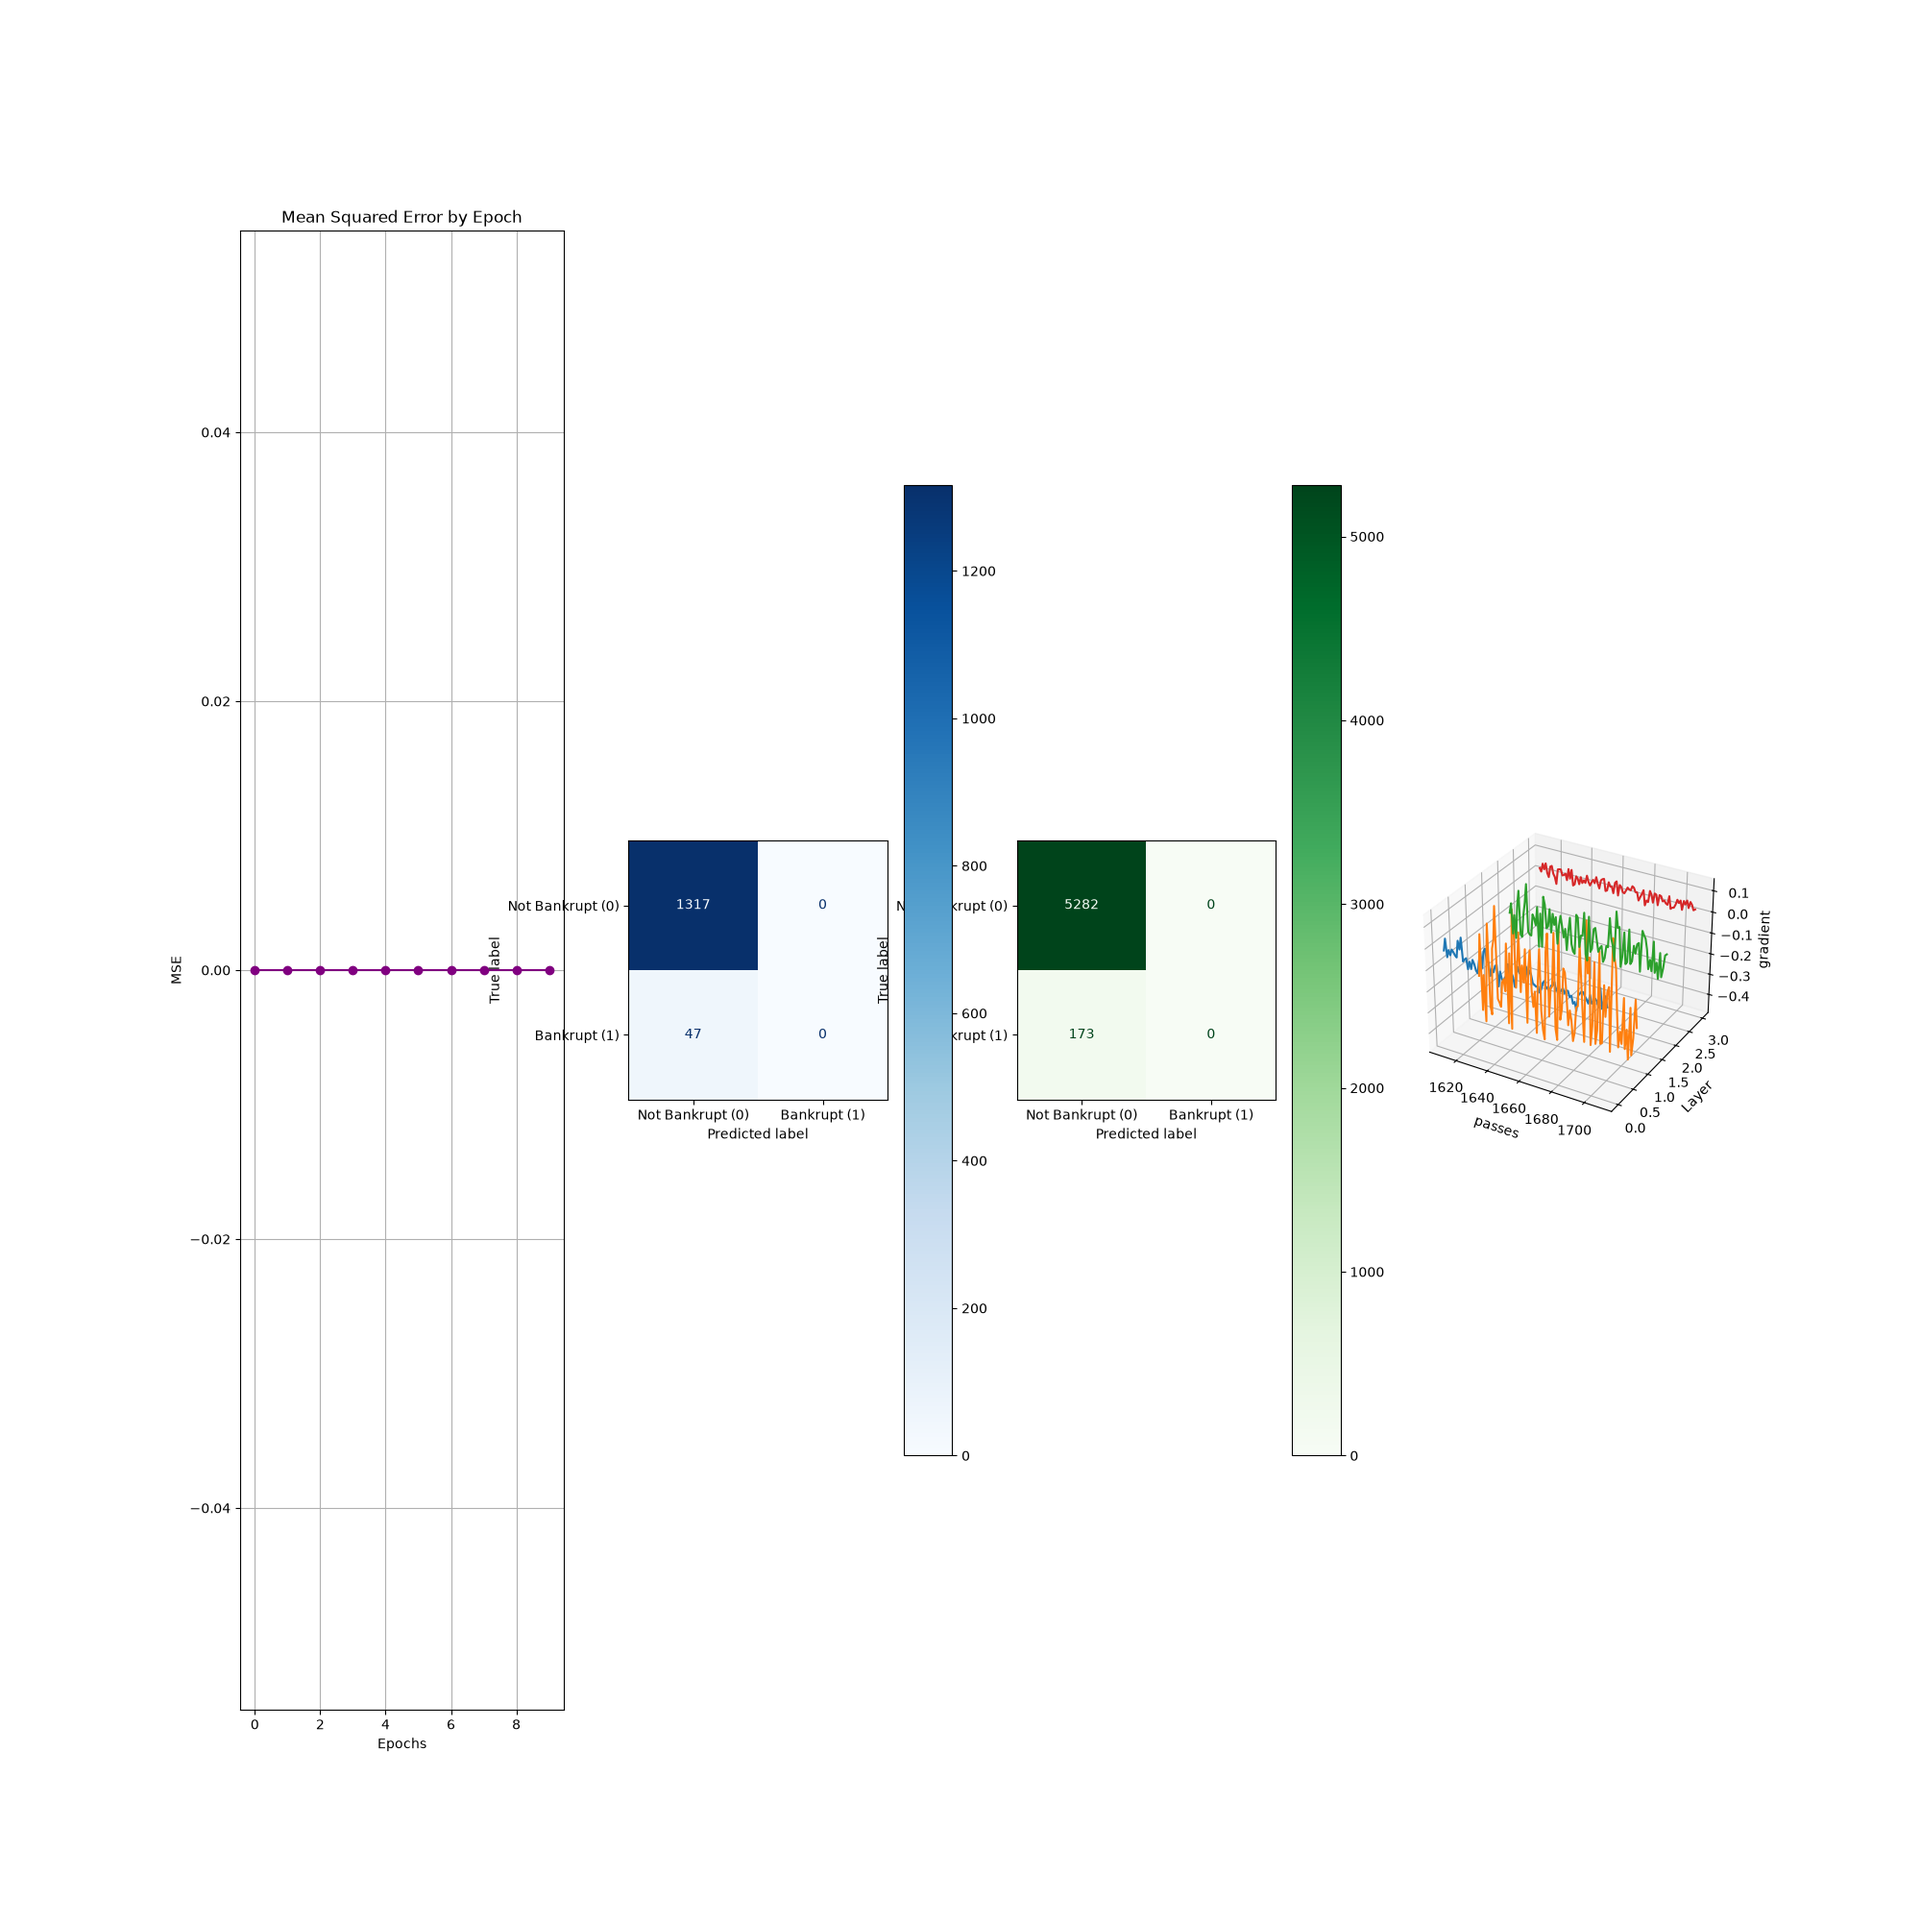
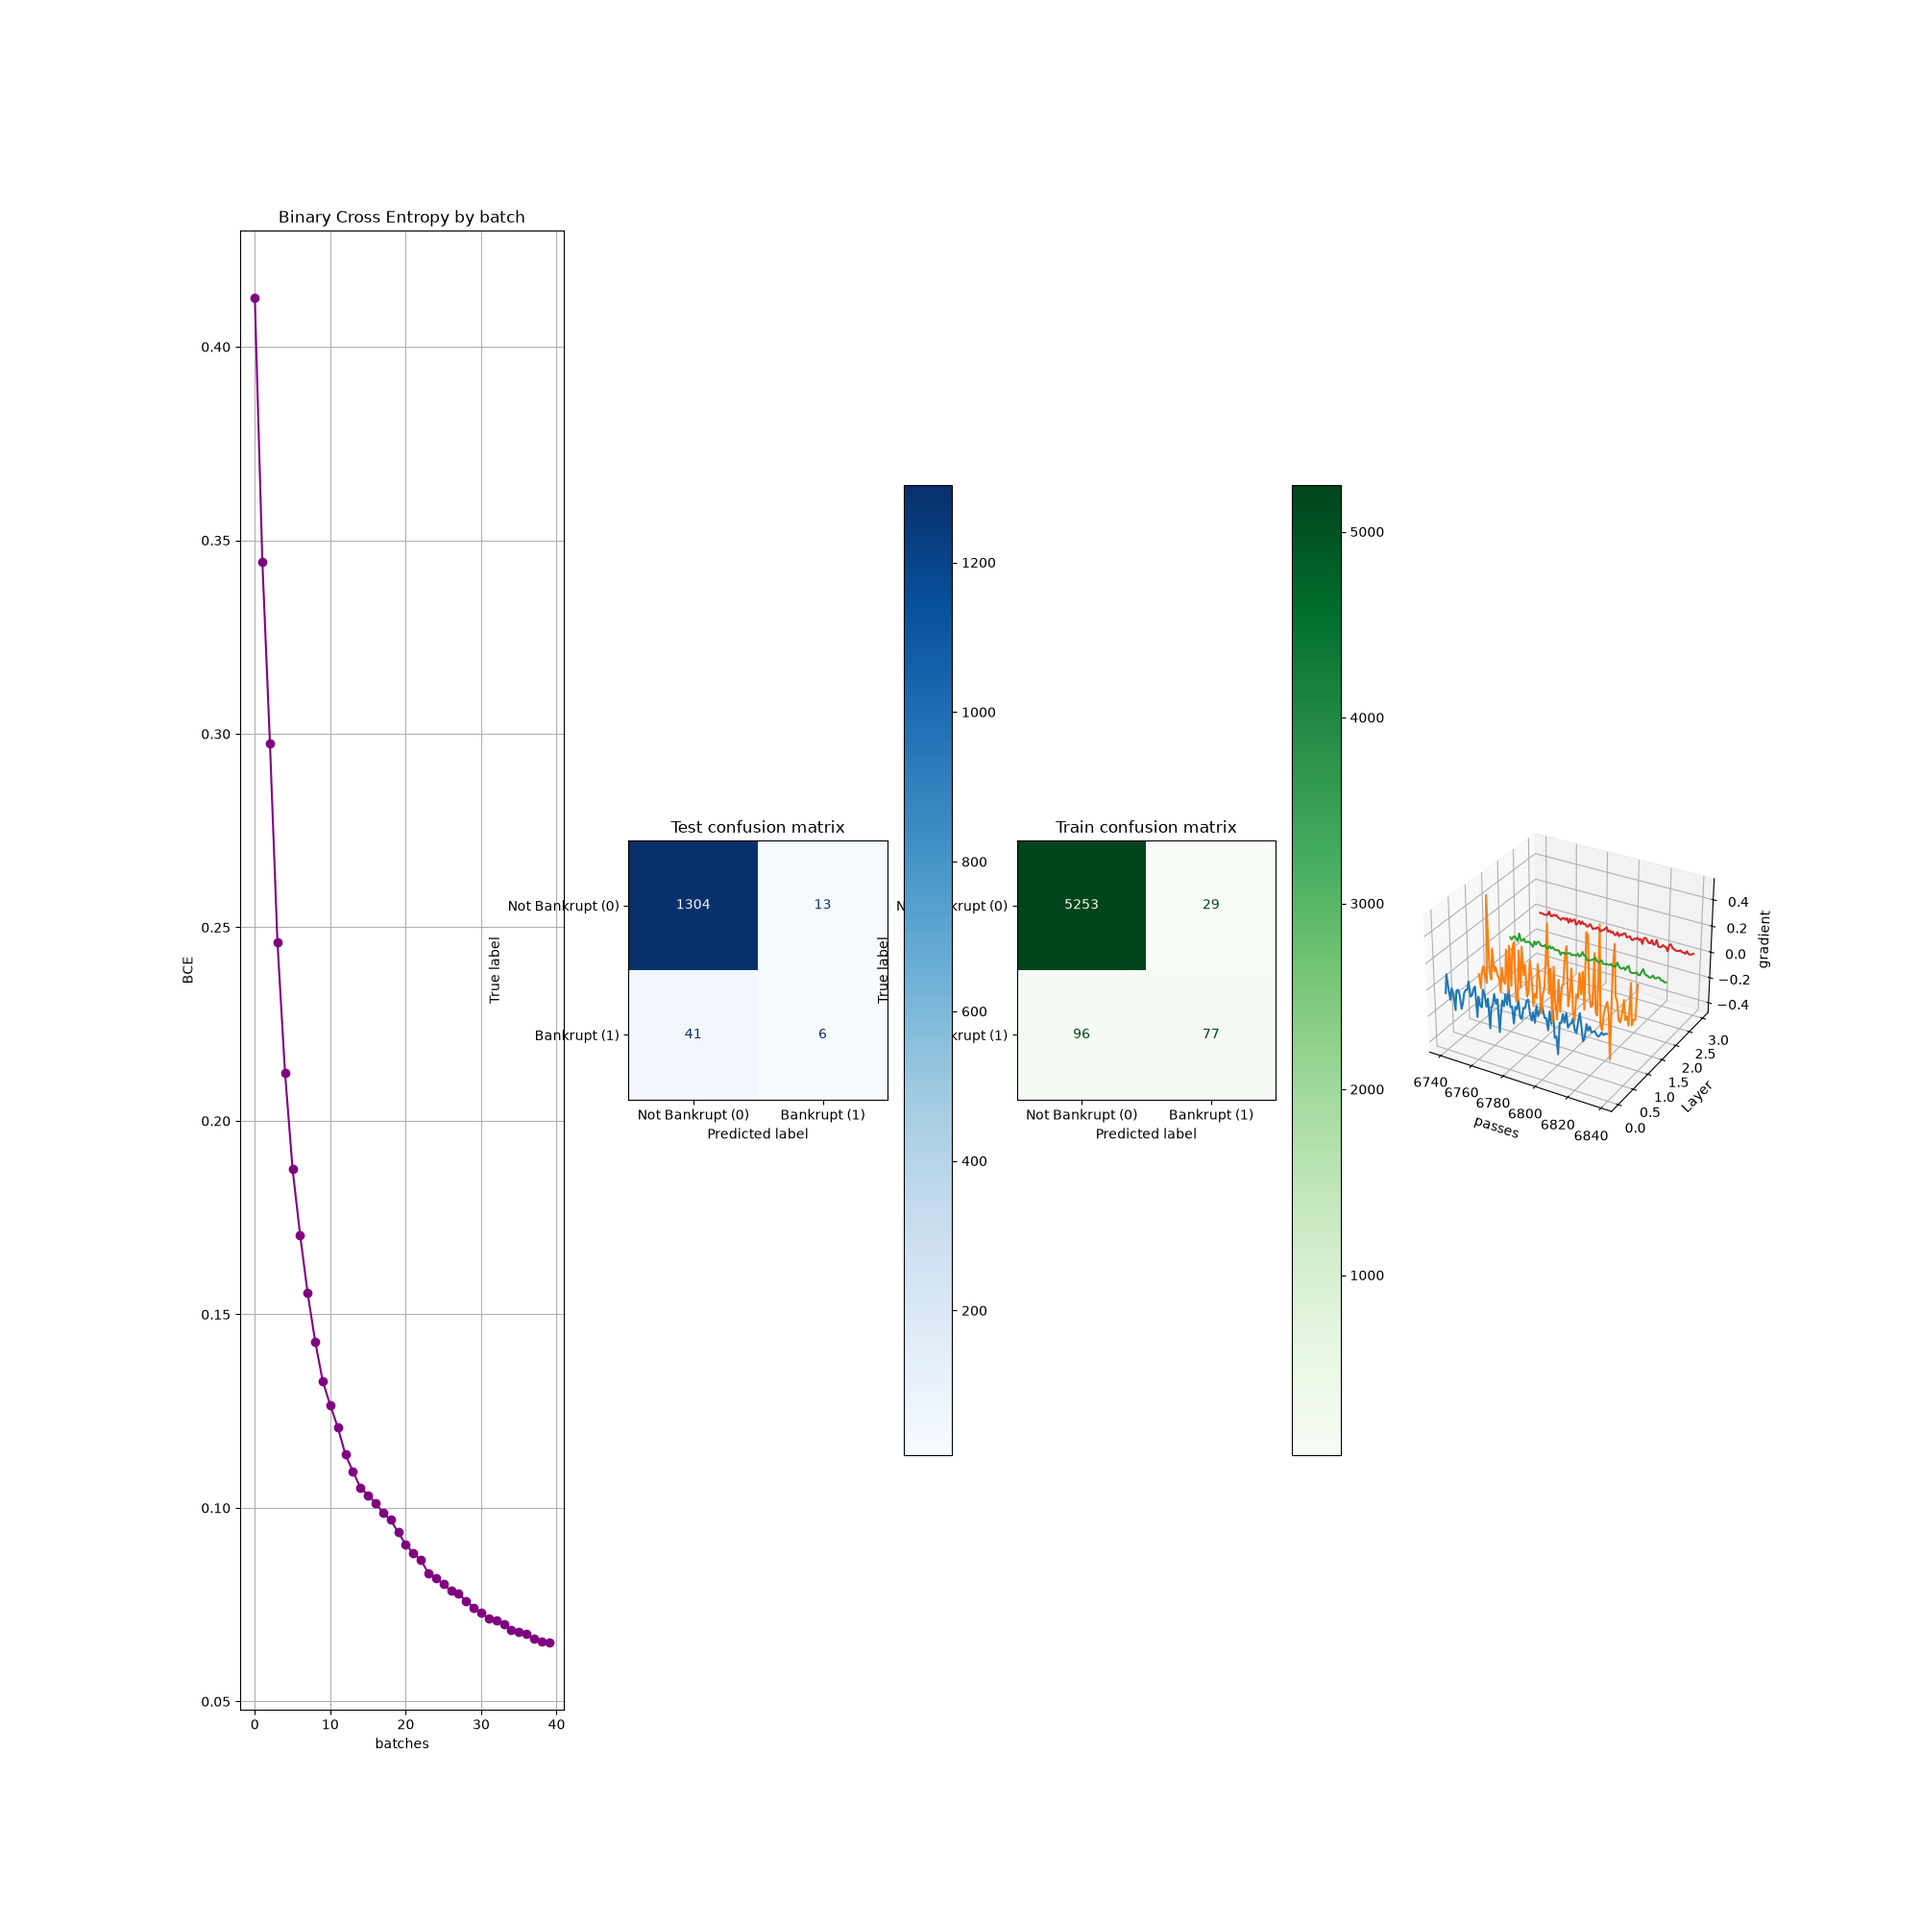
update classiffication validation

diff --git a/Axon.py b/Axon.py
@@ -5,6 +5,42 @@ import copy
 from AxonCV import image_processing
 rng = cp.random.default_rng()
 max_itterations = 400
+
+def reLu_forwards(Z)->cp.ndarray:
+  A = cp.maximum(0, Z)
+  return  A
+def relu_backpropergation(Z)->cp.ndarray:
+  return cp.where(Z > 0, 1, 0)
+def tanh_forwards(Z)->cp.ndarray:
+  return cp.tanh(Z)
+def tanh_backpropergation(Z)->cp.ndarray:
+  return  1 - cp.tanh(Z)**2
+def linear_forwards(Z)->cp.ndarray:
+  return Z
+def linear_backpropergation(Z)->cp.ndarray:
+  return  cp.ones_like(Z)
+def GELU_forwards(Z)->cp.ndarray:
+  u = cp.sqrt(2/cp.pi)*(Z+0.044715*(Z**3))
+  u = cp.clip(u, -10.0, 10.0)
+  return 0.5*Z*(1+cp.tanh(u))
+def GELU_backpropergation(Z):
+  u = cp.sqrt(2/cp.pi)*(Z+0.044715*(Z**3))
+  dudx = cp.sqrt(2/cp.pi)*(1+0.134145*Z**2)
+  return 0.5*(1+cp.tanh(u))+(0.5*Z)*((1-cp.tanh(u)**2)*dudx)
+def soft_max(Z):
+  ex = cp.exp(Z-cp.max(Z,axis=1, keepdims=True))
+  return ex/cp.sum(ex,axis=1, keepdims=True)
+def sigmoid_forwards(Z):
+  a = cp.where(
+  Z >= 0,
+  1 / (1 + cp.exp(-Z)),
+  cp.exp(Z) / (1 + cp.exp(Z))
+  )
+  return a
+def sigmoid_backpropergation(Z):
+  return Z*(1-Z)
+
+
 class networkLayer:
   def __init__(self, parent_instance, m:int, n:int, activation:str = "ReLu", stage:str="hidden"):
     self.parent_model = parent_instance 
@@ -35,12 +71,12 @@ class networkLayer:
     self.input = cp.array([[]])
     self.activation = activation
     self.activation_functions = {
-      "ReLU":{"forwards":self.reLu_forwards, "back_propergation":self.relu_backpropergation},
-      "tanh":{"forwards":self.tanh_forwards, "back_propergation":self.tanh_backpropergation},
-      "linear":{"forwards":self.linear_forwards, "back_propergation":self.linear_backpropergation},
-      "GELU":{"forwards":self.GELU_forwards, "back_propergation":self.GELU_backpropergation},
-      "Softmax":{"forwards":self.soft_max, "back_propergation":self.linear_backpropergation},
-      "sigmoid":{"forwards":self.sigmoid, "back_propergation":self.linear_backpropergation}
+      "ReLU":{"forwards": reLu_forwards, "back_propergation":relu_backpropergation},
+      "tanh":{"forwards":tanh_forwards, "back_propergation": tanh_backpropergation},
+      "linear":{"forwards":linear_forwards, "back_propergation":linear_backpropergation},
+      "GELU":{"forwards":GELU_forwards, "back_propergation":GELU_backpropergation},
+      "Softmax":{"forwards":soft_max, "back_propergation":linear_backpropergation},
+      "sigmoid":{"forwards":sigmoid_forwards, "back_propergation":linear_backpropergation}
 
     }
     
@@ -55,39 +91,7 @@ class networkLayer:
     else:
       self.L = 0
       self.regularisation_backwards = self.std_back_prop
-  def reLu_forwards(self,)->cp.ndarray:
-    A = cp.maximum(0, self.linear_output)
-    return  A
-  def relu_backpropergation(self)->cp.ndarray:
-    return cp.where(self.linear_output > 0, 1, 0)
-  def tanh_forwards(self)->cp.ndarray:
-    return cp.tanh(self.linear_output)
-  def tanh_backpropergation(self)->cp.ndarray:
-    return  1 - cp.tanh(self.linear_output)**2
-  def linear_forwards(self)->cp.ndarray:
-    return self.linear_output
-  def linear_backpropergation(self)->cp.ndarray:
-    return  cp.ones_like(self.linear_output)
-  def GELU_forwards(self)->cp.ndarray:
-    u = cp.sqrt(2/cp.pi)*(self.linear_output+0.044715*(self.linear_output**3))
-    u = cp.clip(u, -10.0, 10.0)
-    return 0.5*self.linear_output*(1+cp.tanh(u))
-  def GELU_backpropergation(self):
-    u = cp.sqrt(2/cp.pi)*(self.linear_output+0.044715*(self.linear_output**3))
-    dudx = cp.sqrt(2/cp.pi)*(1+0.134145*self.linear_output**2)
-    return 0.5*(1+cp.tanh(u))+(0.5*self.linear_output)*((1-cp.tanh(u)**2)*dudx)
-  def soft_max(self):
-    ex = cp.exp(self.linear_output-cp.max(self.linear_output,axis=1, keepdims=True))
-    return ex/cp.sum(ex,axis=1, keepdims=True)
-  def sigmoid(self):
-    return cp.where(
-    self.linear_output >= 0,
-    1 / (1 + cp.exp(-self.linear_output)),
-    cp.exp(self.linear_output) / (1 + cp.exp(self.linear_output))
-    )
-  def sigmoid_backpropergation(self):
-    return self.linear_output*(1-self.linear_output)
-
+ 
 
 
 
@@ -98,7 +102,7 @@ class networkLayer:
     self.input = cp.array(input)
     self.linear_output = cp.dot(self.input, self.weights) + self.biases
     #self.weights_sum = cp.sum(cp.abs(self.weights))                                              
-    return self.activation_func()
+    return self.activation_func(self.linear_output)
   
   def L2_back_prop(self):
     return self.dW_base + 2*(self.parent_model.lambda_param*self.weights)
@@ -108,7 +112,7 @@ class networkLayer:
     return self.dW_base
   
   def back_propergation (self, upstream_gradient:cp.ndarray)->cp.ndarray:
-    self.deriv = self.activation_deriv()
+    self.deriv = self.activation_deriv(self.linear_output)
     self.delta = upstream_gradient * self.deriv 
     self.dW_base = cp.dot(self.input.T, self.delta)
     dW_total = self.regularisation_backwards()
@@ -151,23 +155,31 @@ class loss_function:
   def mean_squared(self, y:cp.ndarray, y_pred:cp.ndarray):
     y = cp.asarray(y)
     m,_ = y.shape
-    self.loss_gradient = 2*(y_pred-y)/m
-    self.parent_model.sum_abselute_error += cp.sum((y_pred-y)**2)
-    return self.loss_gradient
+    loss_gradient = 2*(y_pred-y)/m
+    error = cp.sum((y_pred-y)**2)/m
+    return loss_gradient, error
 
   def binary_cross_entropy(self, y:cp.ndarray, y_pred:cp.ndarray):
     m,_ = y.shape
     epsilon = 1e-7
     y_pred = cp.clip(y_pred, epsilon, 1.0 - epsilon)
-    bce_loss = -(y* cp.log(y_pred)+(1-y)*cp.log(1-y_pred))
-    return ((y_pred - y) / m) #derivative sent back to output layer
+    error = -(y* cp.log(y_pred)+(1-y)*cp.log(1-y_pred))
+    return ((y_pred - y) / m), cp.mean(error) #derivative sent back to output layer
+  
+  def BCE_withlogits(self, y:cp.ndarray, y_pred:cp.ndarray):
+    m,_ = y.shape
+    probs = sigmoid_forwards(y_pred)
+    error = cp.maximum(y_pred,0)-y_pred*y+cp.log1p(cp.exp(-cp.abs(y_pred)))
+    loss_gradient = (probs-y)/m
+    return loss_gradient, cp.mean(error)
+                                                
 
   def multiclass_cross_entropy (self, y:cp.ndarray, y_pred:cp.ndarray):
     m,_ = y.shape
     epsilon = 1e-15
     y_pred = cp.clip(y_pred, epsilon, 1.0 - epsilon)
-    mce_loss = -(cp.sum(y*cp.log(y_pred), axis=1))
-    return (y_pred-y)/m  #derivative sent back to output layer
+    error = -(cp.sum(y*cp.log(y_pred), axis=1))
+    return (y_pred - y)/m, cp.mean(error) #derivative sent back to output layer
   
 
 class network:
@@ -225,7 +237,7 @@ class model:
     self.batch_size = batch_size
     self.n_layers = len(self.model)
     self.analytics={}
-    self.analytics["MSE"]=[]
+    self.analytics["batch error"]=[]
     self.analytics["total_weights"]=[]
     self.analytics["layer_gradients"]={}
     for i in range(self.n_layers):
@@ -243,12 +255,14 @@ class model:
           layer_n = output_features
           output_type = layer.get("n_layer", "regressor")
           stage = "output"
+          if self.loss_type == "BCEwithlogits":
+            layer["activation_function"] = "linear"
       else:
         layer_n = layer["hidden_features"]
         layer_m = self.model[i-1]["hidden_features"]
         stage = "hidden"
       activation_function = layer["activation_function"]
-      
+    
       p = layer.get("n_layer", 1)
       type = layer.get("type", None)
       for t in range(p):
@@ -282,8 +296,10 @@ class model:
       self.loss =  self.loss_function.binary_cross_entropy
     elif loss_type == "MCE":
       self.loss =  self.loss_function.multiclass_cross_entropy
+    elif loss_type == "BCEwithlogits":
+      self.loss =  self.loss_function.BCE_withlogits
 
-    print (f"loss {self.loss}")
+
 
 
     
@@ -309,22 +325,24 @@ class model:
       self.sum_abselute_error = 0
       for i in range(0, rows, self.batch_size):
         y_pred = self.network.forward_pass(input=x[i:i+(self.batch_size)])
-        loss = self.loss(y=y[i:i+(self.batch_size)], y_pred=y_pred)
+        loss,mean_error = self.loss(y=y[i:i+(self.batch_size)], y_pred=y_pred)
         self.network.back_pass (loss_gradient=loss)
-      self.analytics["MSE"].append(float(self.sum_abselute_error/rows))
+      self.analytics["batch error"].append(float(mean_error))
       self.learning(current_epoch=epoch, total_epochs=epochs)
-  def predict(self, x):
+ 
+  def predict(self, x, output_activation:str = None):
     feed_out = cp.asarray(x)
-    
     for i in range(self.n_layers):
       feed_out = self.model[i]["layer_obj"].forward(feed_out)
-    
-    return feed_out  
+    if output_activation == "sigmoid":
+      return sigmoid_forwards(feed_out[-1])
+    else:
+      return feed_out[-1] 
   def total_weights (self):
     return (self.analytics["total_weights"])
 
-  def MSE (self):
-    return (self.analytics["MSE"])
+  def training_error (self):
+    return (self.analytics["batch error"])
   def gradients (self):
     return (self.analytics["layer_gradients"])
   def model_analytics (self):

diff --git a/model_validation_classification.py b/model_validation_classification.py
@@ -15,23 +15,23 @@ test_prediction = []
 #*******************model peramerters***************************************
 threshold = 0.4
 data_path = "Bankrupcy"
-learning_rate_schedualing = "decay"
+learning_rate_schedualing = None
 Bvals = 0.0
 biases_init = "fill" 
 weights_init = "He"  
 input_features=93
 output_features=1 
-learning_rate=2e-3
+learning_rate=5e-3
 regularisation=None
 batch_size=32
 lambda_param = 0.001
-loss_type = "BCE"
-epochs = 150
-file_path = "models//classifier//"
+loss_type = "BCEwithlogits"
+epochs = 1500
+file_path = "models/classifier/"
 dict = [{"activation_function":"ReLU", "hidden_features":93},
         {"activation_function":"ReLU", "hidden_features":20},
         {"activation_function":"ReLU", "hidden_features":10},
-        {"activation_function":"sigmoid", "hidden_features":1}
+        {"activation_function":"linear", "hidden_features":1}
         ]
 #*************************************************************
 
@@ -141,10 +141,10 @@ def prediction(x: np.ndarray, threshold: float, model=pipeline):
     scores = []
     rows,_ = x.shape
     for i in range (rows):
-        preds = model.predict(x[i:i+1]).get()
+        preds = model.predict(x[i:i+1], output_activation="sigmoid").get()
         binary = (preds > threshold).astype(int)
         predictions.append(binary)
-        scores.append(float(preds[0,0]))
+        scores.append(float(preds[0]))
     #print(scores)
     return np.array(predictions), np.array(scores)
    
@@ -187,14 +187,17 @@ report["baseline"] = baseline
 
 
 fig, axes = plt.subplots(nrows=1, ncols=4, figsize=(20, 20))
-MSE = pipeline.MSE()
+training_error = pipeline.training_error()
 total_weights = pipeline.total_weights()
 analytics = pipeline.model_analytics()
-axes[0].plot(MSE, marker='o', color='purple')
-axes[0].set_title("Mean Squared Error by Epoch")
-axes[0].set_xlabel("Epochs")
-axes[0].set_ylabel("MSE")
+axes[0].plot(training_error, marker='o', color='purple')
+axes[0].set_title("Binary Cross Entropy by batch")
+axes[0].set_xlabel("batches")
+axes[0].set_ylabel("BCE")
 axes[0].grid(True)
+axes[1].set_title("Test confusion matrix")
+axes[2].set_title("Train confusion matrix")
+
 disp1.plot(ax=axes[1], cmap="Blues", values_format="d")
 disp2.plot(ax=axes[2], cmap="Greens", values_format="d")
 axes[-1].remove()
@@ -218,21 +221,22 @@ axes[2].set_ylabel('Layer')
 #axes[2].plot(gradient_analytics[7][-100:], marker='o', color='purple'
 with open(f"{file_path}//model{model_no}.txt", "w") as f:
     json.dump(dict, f, indent=4)
-
 df = pd.read_csv(file_path+"model_parameters.csv")
 last_row_index = df["index"].iloc[-1]
 print(last_row_index)
 new_index = int(last_row_index)+1
+
+#new_index = 0
+params["index"] = new_index
 dir = Path(f"{file_path}model{model_no}/{data_path}")
 dir.mkdir(parents=True, exist_ok=True)    
-
 file = dir/f"{model_no} {new_index}.png"       
 file_exists = os.path.isfile(file_path+"model_parameters.csv")
-file_exists = os.path.isfile(file_path+"model_analytics.csv")
+#file_exists = os.path.isfile(file_path+"model_analytics.csv")
 plt.savefig(file)
 plt.show()
 
-df_report.to_csv(f"models//classifier//model_analytics_run_{new_index}.csv",mode='a',index=True, header=not file_exists)
-params.to_csv(f"models//classifier//model_parameters.csv",mode='a',index=True, header=not file_exists)
+df_report.to_csv(f"models//classifier//model_analytics_run_{new_index}.csv",mode='a',index=True, header=True,)
+params.to_csv(file_path+"model_parameters.csv",mode='a',index=True,  header=not file_exists)
 
 #pipeline.dump()
